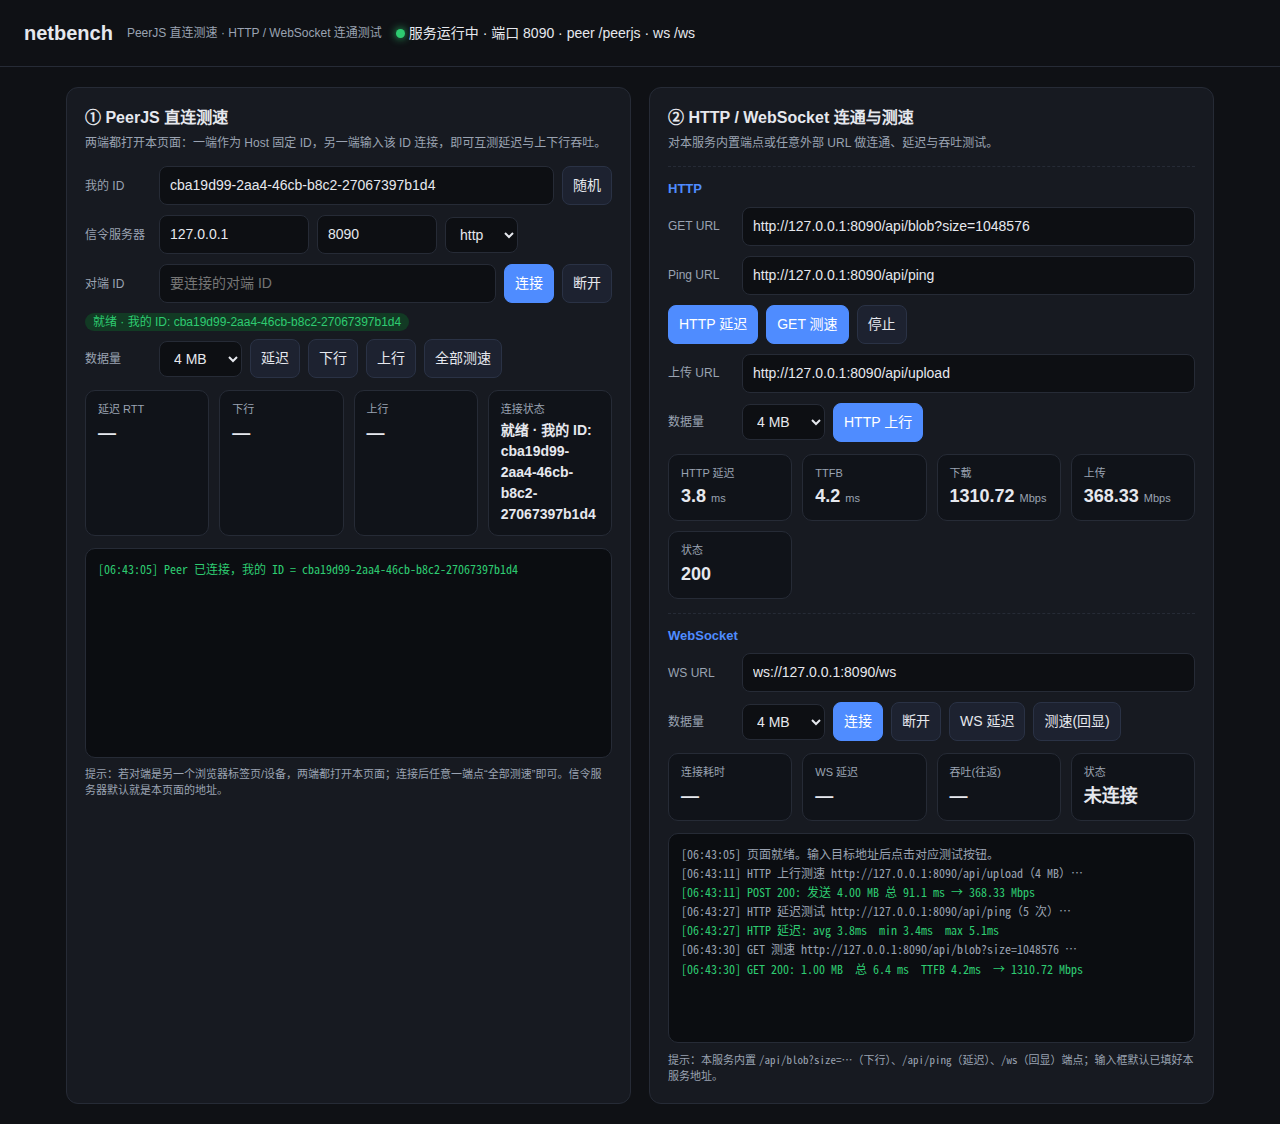
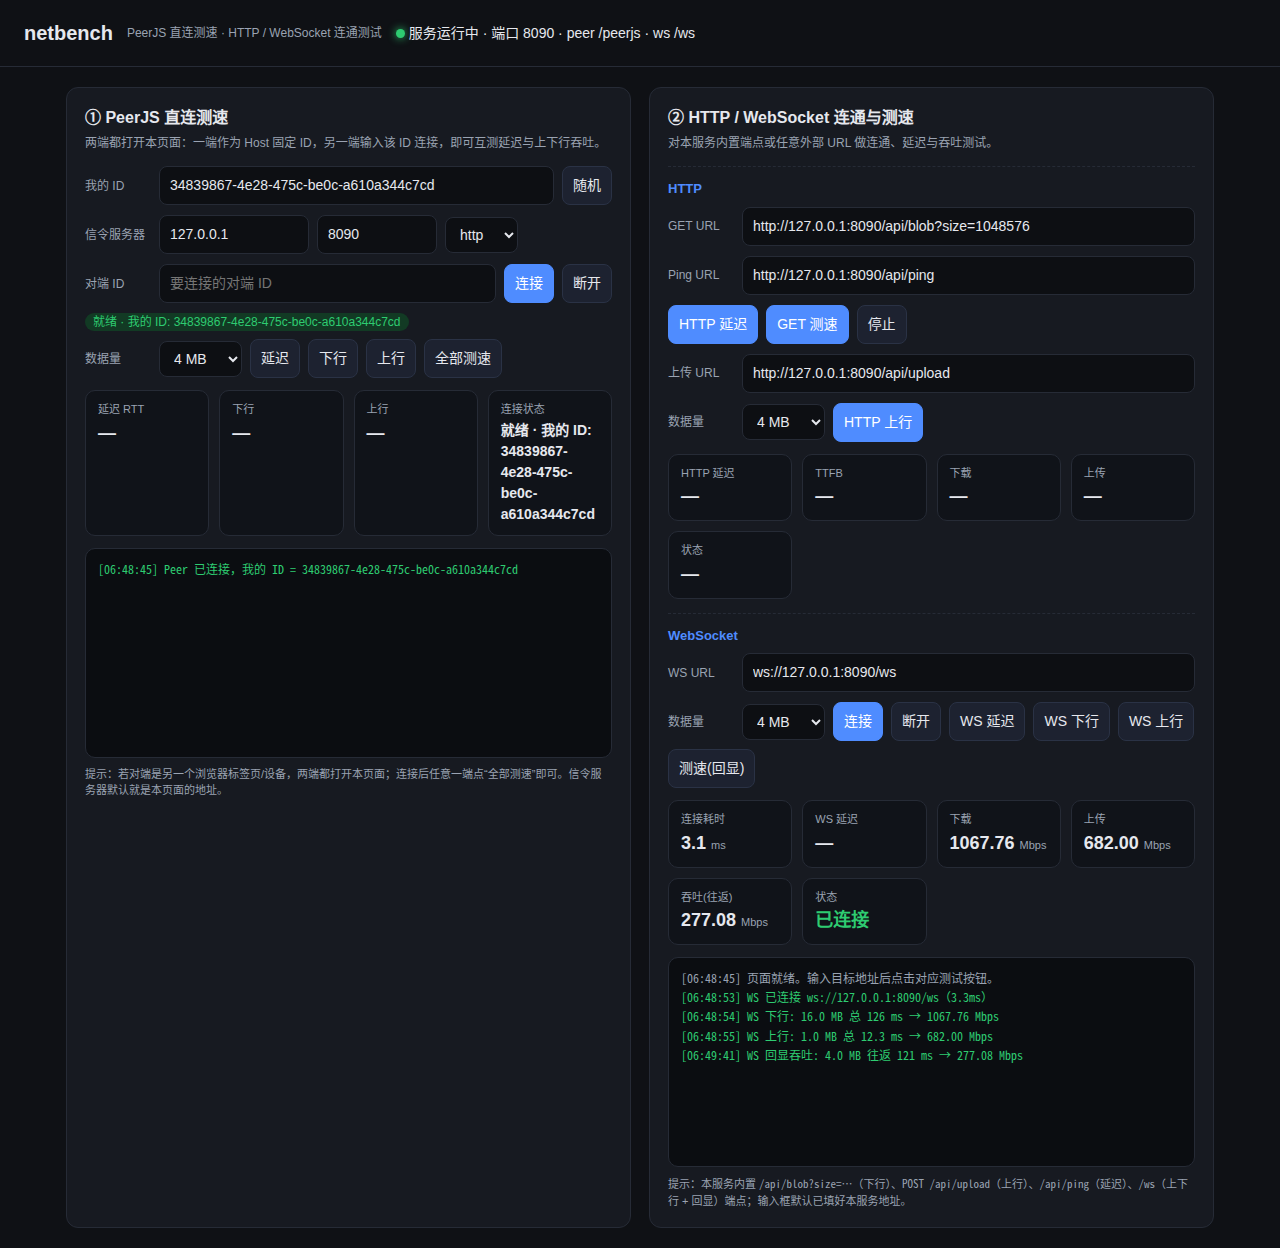
ws: 增加上下行测速（/ws 扩展 down/upStart/upDone 协议）
- 服务端 /ws 新增协议：down 推送 size 字节（下行）、upStart 进入上行计数、
  收满回 upDone（上行）；其余文本/二进制仍原样回声（保留 ping 与测速(回显)）
- 页面 WS 面板新增：WS 下行 / WS 上行 按钮 + 下载 / 上传 指标卡
- README 功能②与端点表补充 WS 上下行；刷新 preview.png

diff --git a/public/index.html b/public/index.html
@@ -170,17 +170,21 @@
         <button id="btnWsConnect" class="primary">连接</button>
         <button id="btnWsDisconnect">断开</button>
         <button id="btnWsPing">WS 延迟</button>
+        <button id="btnWsDown">WS 下行</button>
+        <button id="btnWsUp">WS 上行</button>
         <button id="btnWsSpeed">测速(回显)</button>
       </div>
       <div class="metrics" id="wsMetrics">
         <div class="metric"><div class="k">连接耗时</div><div class="v" id="m_ws_conn">—</div></div>
         <div class="metric"><div class="k">WS 延迟</div><div class="v" id="m_ws_ping">—</div></div>
+        <div class="metric"><div class="k">下载</div><div class="v" id="m_ws_down">—</div></div>
+        <div class="metric"><div class="k">上传</div><div class="v" id="m_ws_up">—</div></div>
         <div class="metric"><div class="k">吞吐(往返)</div><div class="v" id="m_ws_speed">—</div></div>
         <div class="metric"><div class="k">状态</div><div class="v" id="m_ws_status">未连接</div></div>
       </div>
     </div>
     <div class="log" id="httpLog"></div>
-    <div class="hint">提示：本服务内置 <code>/api/blob?size=…</code>（下行）、<code>/api/ping</code>（延迟）、<code>/ws</code>（回显）端点；输入框默认已填好本服务地址。</div>
+    <div class="hint">提示：本服务内置 <code>/api/blob?size=…</code>（下行）、<code>POST /api/upload</code>（上行）、<code>/api/ping</code>（延迟）、<code>/ws</code>（上下行 + 回显）端点；输入框默认已填好本服务地址。</div>
   </section>
 </main>
 
@@ -538,12 +542,80 @@ function setWsStatus(txt, cls) {
   else if (cls === 'err') $('m_ws_status').style.color = 'var(--err)';
   else $('m_ws_status').style.color = '';
 }
+
+/* ---- WS 上下行协议：与 /ws 服务端约定 ---- */
+let wsState = { down: null, up: null }; // { id, size, t0, resolve } 各一
+function wireWsProtocol(w) {
+  w.addEventListener('message', (ev) => {
+    const d = ev.data;
+    // JSON 控制消息（服务端 → 客户端）：upDone
+    if (typeof d === 'string' || (d instanceof ArrayBuffer && d.byteLength < 4096)) {
+      try {
+        const m = JSON.parse(typeof d === 'string' ? d : new TextDecoder().decode(d));
+        if (m && m.m === 'upDone' && wsState.up && m.id === wsState.up.id) {
+          const st = wsState.up; wsState.up = null;
+          const dt = now() - st.t0;
+          const mbps = fmtMbps(m.size || st.size, dt);
+          $('m_ws_up').innerHTML = `${mbps} <small>Mbps</small>`;
+          log(httpLog, `WS 上行: ${((m.size || st.size) / 1048576).toFixed(1)} MB 总 ${fmtMs(dt)} → ${mbps} Mbps`, 'ok');
+          if (st.resolve) st.resolve({ dt });
+        }
+      } catch (e) { /* 非 JSON，忽略 */ }
+      return;
+    }
+    // 二进制：计入进行中的下行测速
+    if (wsState.down) {
+      const st = wsState.down;
+      st.got += (d.byteLength !== undefined ? d.byteLength : (d.size || 0));
+      if (st.got >= st.size) {
+        wsState.down = null;
+        const dt = now() - st.t0;
+        const mbps = fmtMbps(st.size, dt);
+        $('m_ws_down').innerHTML = `${mbps} <small>Mbps</small>`;
+        log(httpLog, `WS 下行: ${(st.size / 1048576).toFixed(1)} MB 总 ${fmtMs(dt)} → ${mbps} Mbps`, 'ok');
+        if (st.resolve) st.resolve({ dt });
+      }
+    }
+  });
+}
+
+// WS 下行：请求 size 字节，服务端推送，按请求→收满计时
+function wsDownload(w, size) {
+  return new Promise((resolve, reject) => {
+    const id = 'd' + Date.now();
+    wsState.down = { id, size, got: 0, t0: now(), resolve };
+    w.send(JSON.stringify({ m: 'down', size, id }));
+    setTimeout(() => { if (wsState.down && wsState.down.id === id) { wsState.down = null; reject(new Error('WS 下行超时')); } }, 30000);
+  });
+}
+
+// WS 上行：先发 upStart，再发 size 字节（分块+背压），等 upDone 计时
+function wsUpload(w, size) {
+  return new Promise((resolve, reject) => {
+    const id = 'u' + Date.now();
+    wsState.up = { id, size, t0: now(), resolve };
+    w.send(JSON.stringify({ m: 'upStart', size, id }));
+    const chunk = new ArrayBuffer(64 * 1024); new Uint8Array(chunk).fill(0x5a);
+    let sent = 0;
+    const pump = () => {
+      while (sent < size) {
+        const n = Math.min(64 * 1024, size - sent);
+        sent += n;
+        w.send(n === 64 * 1024 ? chunk : chunk.slice(0, n));
+        if (w.bufferedAmount > 8 * 1024 * 1024) { setTimeout(pump, 10); return; }
+      }
+    };
+    pump();
+    setTimeout(() => { if (wsState.up && wsState.up.id === id) { wsState.up = null; reject(new Error('WS 上行超时')); } }, 30000);
+  });
+}
+
 function wsConnect(url) {
   return new Promise((resolve, reject) => {
     const s = now();
     const w = new WebSocket(url);
     w.binaryType = 'arraybuffer';
-    w.onopen = () => { $('m_ws_conn').innerHTML = `${(now() - s).toFixed(1)} <small>ms</small>`; setWsStatus('已连接', 'ok'); log(httpLog, `WS 已连接 ${url}（${(now() - s).toFixed(1)}ms）`, 'ok'); resolve(w); };
+    w.onopen = () => { $('m_ws_conn').innerHTML = `${(now() - s).toFixed(1)} <small>ms</small>`; setWsStatus('已连接', 'ok'); log(httpLog, `WS 已连接 ${url}（${(now() - s).toFixed(1)}ms）`, 'ok'); wireWsProtocol(w); resolve(w); };
     w.onerror = () => { setWsStatus('错误', 'err'); reject(new Error('WS 连接失败: ' + url)); };
   });
 }
@@ -591,6 +663,8 @@ $('btnHttpStop').onclick = () => { /* fetch 不可中断，占位 */ log(httpLog
 $('btnWsConnect').onclick = () => { if (ws) ws.close(); wsConnect($('wsUrl').value.trim()).then(w => { ws = w; }).catch(e => log(httpLog, e.message, 'err')); };
 $('btnWsDisconnect').onclick = () => { if (ws) { ws.close(); ws = null; setWsStatus('未连接', ''); } };
 $('btnWsPing').onclick = () => { if (!ws) { log(httpLog, '先连接 WS', 'warn'); return; } wsPing(ws).catch(e => log(httpLog, e.message, 'err')); };
+$('btnWsDown').onclick = () => { if (!ws) { log(httpLog, '先连接 WS', 'warn'); return; } wsDownload(ws, parseInt($('wsSize').value, 10)).catch(e => log(httpLog, e.message, 'err')); };
+$('btnWsUp').onclick = () => { if (!ws) { log(httpLog, '先连接 WS', 'warn'); return; } wsUpload(ws, parseInt($('wsSize').value, 10)).catch(e => log(httpLog, e.message, 'err')); };
 $('btnWsSpeed').onclick = () => { if (!ws) { log(httpLog, '先连接 WS', 'warn'); return; } wsSpeed(ws, parseInt($('wsSize').value, 10)).catch(e => log(httpLog, e.message, 'err')); };
 
 /* ==================================================================== */

diff --git a/server.js b/server.js
@@ -130,12 +130,57 @@ app.get('/api/info', (req, res) => {
 });
 
 /* ------------------------------------------------------------------ */
-/* WebSocket 回声端点（/ws）                                            */
+/* WebSocket 端点（/ws）                                                */
+/* 默认行为 = 回声（保留「测速(回显)」与 ping）；扩展协议：              */
+/*   {m:'down',size,id}   → 服务端推送 size 字节二进制（下行测速）       */
+/*   {m:'upStart',size,id} → 进入上行计数；收满 size 字节回 {m:'upDone'} */
+/* 其余（含 {m:'ping'}、二进制）仍原样回声。                            */
 /* ------------------------------------------------------------------ */
 const echoWSS = new WebSocketServer({ noServer: true, path: '/ws' });
+const WSS_CHUNK = 64 * 1024;
+const WSS_MAX = 512 * 1024 * 1024;
 echoWSS.on('connection', (ws) => {
   ws.send(JSON.stringify({ type: 'hello', t: Date.now() }));
-  ws.on('message', (data, isBinary) => ws.send(data, { binary: isBinary }));
+  let upMode = null; // { id, size, got }
+
+  const sendBytes = (size, id) => {
+    size = Math.max(0, Math.min(size || 0, WSS_MAX));
+    const chunk = Buffer.alloc(WSS_CHUNK, 0x5a);
+    let sent = 0;
+    const pump = () => {
+      while (sent < size) {
+        const n = Math.min(WSS_CHUNK, size - sent);
+        sent += n;
+        ws.send(n === WSS_CHUNK ? chunk : chunk.subarray(0, n), { binary: true });
+        if (ws.bufferedAmount > 8 * 1024 * 1024) { setTimeout(pump, 10); return; }
+      }
+    };
+    pump();
+  };
+
+  ws.on('message', (data, isBinary) => {
+    if (!isBinary) {
+      // JSON 控制消息
+      try {
+        const m = JSON.parse(data.toString());
+        if (m && m.m === 'down') { sendBytes(m.size, m.id); return; }
+        if (m && m.m === 'upStart') { upMode = { id: m.id, size: m.size || 0, got: 0 }; return; }
+      } catch (e) { /* 非 JSON 文本，按回声处理 */ }
+      ws.send(data, { binary: false });
+      return;
+    }
+    // 二进制
+    if (upMode) {
+      upMode.got += data.length;
+      if (upMode.got >= upMode.size) {
+        const { id, got } = upMode;
+        upMode = null;
+        ws.send(JSON.stringify({ m: 'upDone', size: got, id }));
+      }
+      return;
+    }
+    ws.send(data, { binary: true }); // 回声
+  });
 });
 
 // 手动 upgrade 路由：按路径分发到对应 WSS，避免多个 WSS 在共享 server 上互踩

diff --git a/README.md b/README.md
@@ -31,7 +31,7 @@ npm start            # node server.js
 - **HTTP 延迟**：对目标 URL 做 5 次 GET，统计 avg/min/max。
 - **GET 测速（下行）**：流式读取响应，给出 TTFB、总耗时、下载速度（Mbps）。
 - **HTTP 上行**：POST size 字节到目标，按请求-响应往返计时，给出上传速度（Mbps）。
-- **WS 连接**：测连接耗时；**WS 延迟**：JSON ping/pong 回显；**测速（回显）**：发送大数据并等完整回显，按往返计算吞吐。
+- **WS 连接**：测连接耗时；**WS 延迟**：JSON ping/pong 回显；**WS 下行**：请求 `size` 字节，服务端推送，按请求→收满计时；**WS 上行**：分块上传 `size` 字节，服务端计数满回 `upDone`，按发送→应答计时；**测速（回显）**：发送大数据并等完整回显，按往返计算吞吐。
 
 内置端点（页面输入框已默认填好）：
 
@@ -40,7 +40,7 @@ npm start            # node server.js
 | `/api/ping` | HTTP 延迟探测 |
 | `/api/blob?size=1048576` | 下行吞吐（默认 1 MB，上限 512 MB，流式不占内存） |
 | `POST /api/upload` | 上行吞吐（上限 512 MB，POST 请求体计数并回显收到字节数） |
-| `/ws` | WebSocket 回声 |
+| `/ws` | WebSocket 回声 + 上下行协议（`down` / `upStart` / `upDone`） |
 | `/api/info` | 服务信息 |
 | `/peerjs/` | PeerJS 信令 HTTP 信息 |
 | `/peerjs/peerjs/peers` | 在线对端列表（allow_discovery） |
